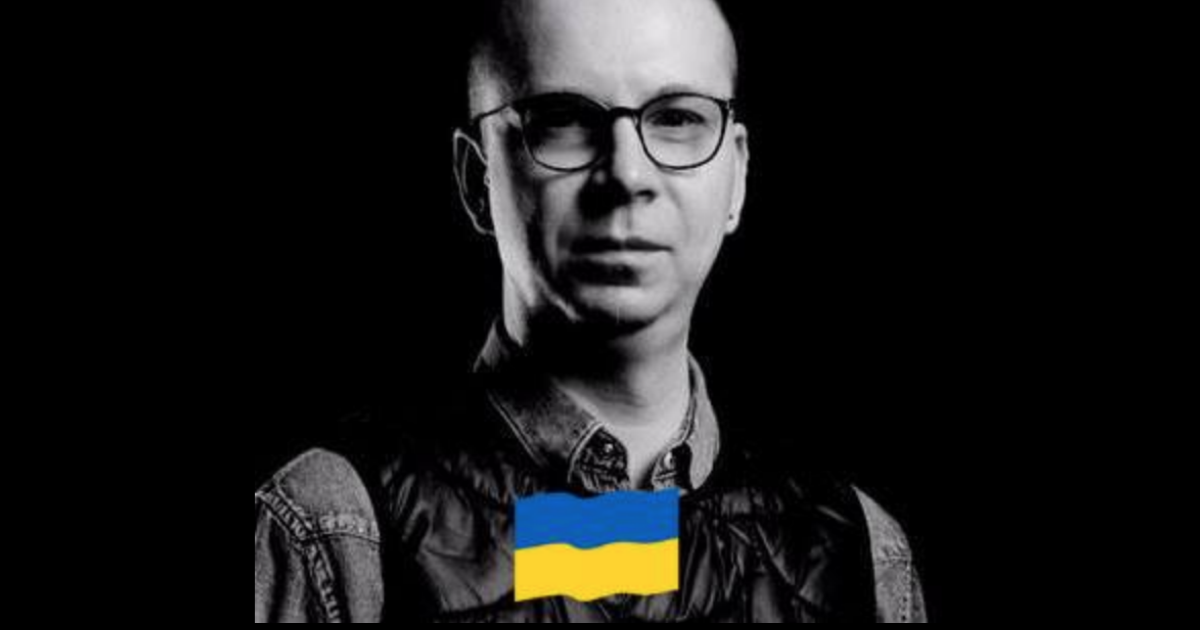
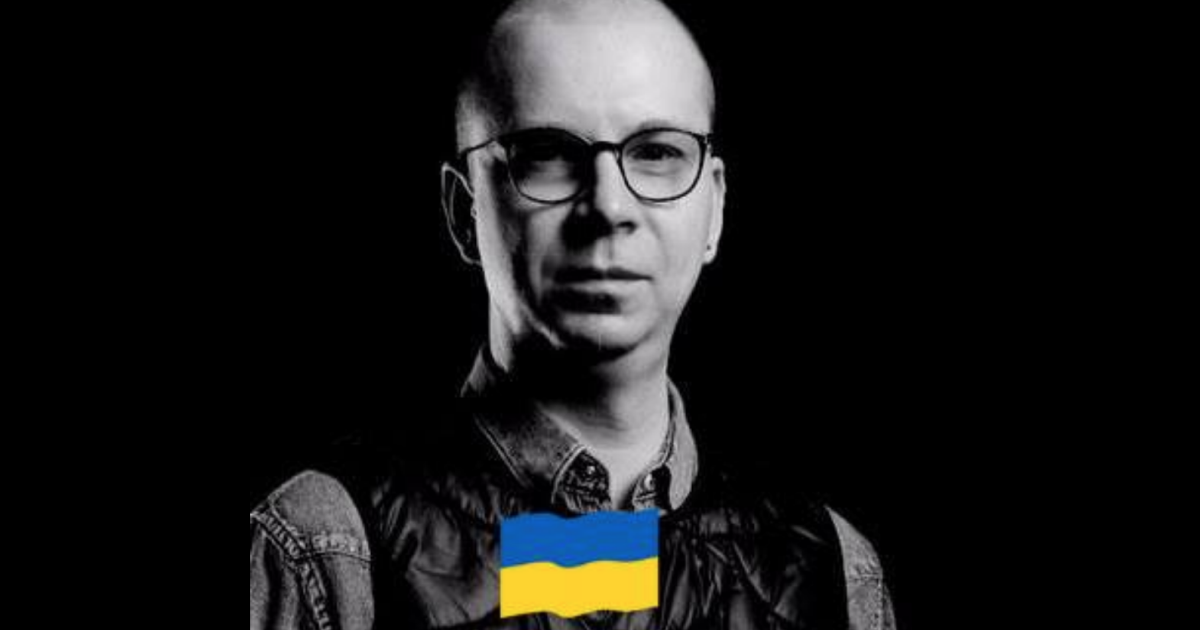
add og imgs

Changed region(s): [[0.185, 0.0, 0.7708, 1.0]]

diff --git a/alextalanov/index.html b/alextalanov/index.html
@@ -9,12 +9,12 @@
 <meta property="og:url" content="http://alexkravchuk.com/alextalanov" />
 <meta property="og:type" content="website" />
 <meta property="og:title" content="Сайт аранжувальника Олексія Таланова" />
-<meta property="og:description" content="Про роботу аранжувальника доступною мовою." />
-<meta property="og:image" content="http://alexkravchuk.com/alextalanov/img/at_devices.png" />
+<meta property="og:description" content="Про роботу аранжувальника доступною мовою" />
+<meta property="og:image" content="http://alexkravchuk.com/alextalanov/img/at_og_image.png" />
 
 <!-- Title -->   
 <title>Сайт аранжувальника Олексія Таланова :: Олександр Кравчук</title>
-<meta name="description" content="">
+<meta name="description" content="Про роботу аранжувальника доступною мовою">
 <link rel="icon" type="image/png" href="../favicon.png" />
 
 <script src="../js/jquery-1.11.0.min.js"></script>

diff --git a/index.html b/index.html
@@ -13,7 +13,7 @@
 
 <!-- Meta -->   
 <title>Олександр Кравчук, дизайнер</title>
-<meta name="description" content="Дизайн, інтерфейс, навигація, система">
+<meta name="description" content="Професійно займаюсь проєктуванням і дизайном з 2008 року">
 <meta name="keywords" content="Олександр, Кравчук, Alexander, Kravchuk, дизайнер, designer">
 <link rel="icon" type="image/png" href="favicon.png?v=2402-7" />
 
